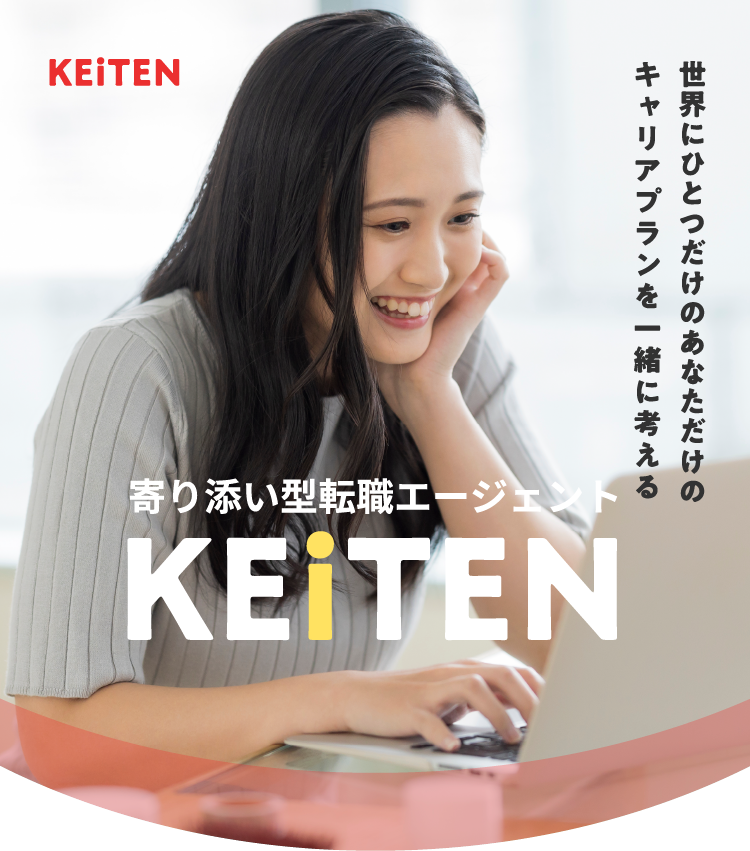
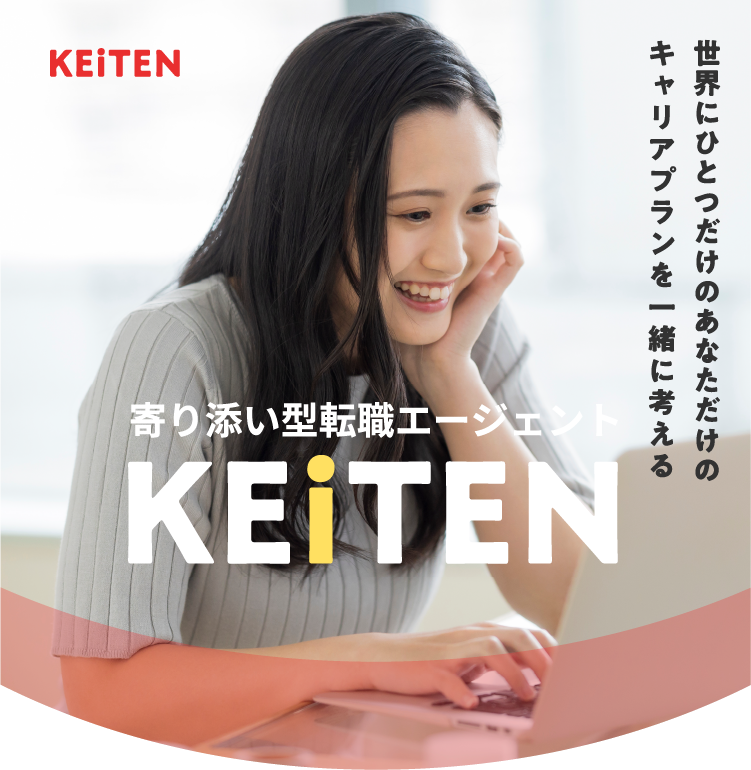
再校の内校

diff --git a/index.html b/index.html
@@ -34,13 +34,7 @@
                     <h1><img src="images/img_mv.png" alt="KEiTEN | 世界にひとつだけのあなただけのキャリアプランを一緒に考える 寄り添い型転職エージェント KEiTEN"></h1>
                 </div>
                 <div class="mv_point ">
-                    <div class="to_line">
-                        <a href="redirect.html" target="_blank">
-                            <img src="images/btn_line.png" alt="LINE カンタン1分!! 無料キャリア相談に申し込む">
-                        </a>
-                        <p class="caption">今回の募集は先着限定20名のご案内です</p>
-                    </div>
-
+                    
                     <ul class="flex">
                         <li><img src="images/txt_mv_01.png" alt="転職成功率89% ※1"></li>
                         <li><img src="images/txt_mv_02.png" alt="平均年収125万円UP ※2"></li>
@@ -49,11 +43,13 @@
                     <p class="caption">※1.2弊社アンケートに準ずるもの</p>
                 </div>
                 <div class="mv_point_bottom">
-                    <p class="img"><img src="images/img_mv_man.png" alt=""></p>
-                    <h2>
-                        <span class="fz180">担当者は全員、<span class="c_yellow">転職経験者</span></span><br>
-                        <span class="fz150">転職成功率は業界トップクラス!!</span>
-                    </h2>
+                    <div class="flex">
+                        <p class="img"><img src="images/img_mv_man.png" alt=""></p>
+                        <h2>
+                            <span class="fz140">担当者は全員、<span class="c_yellow">転職経験者</span></span><br>
+                            <span class="fz110">転職成功率は業界トップクラス!!</span>
+                        </h2>
+                    </div>
                 </div>
 
                 <div class="to_line">

diff --git a/css/style.css b/css/style.css
@@ -444,7 +444,7 @@ body {
 }
 .mv .mv_point {
   position: relative;
-  margin: -20% auto 3%;
+  margin: -29% auto 0;
   width: 86%;
   z-index: 3;
 }
@@ -461,13 +461,18 @@ body {
 .mv .mv_point .caption {
   font-size: 90%;
 }
+.mv .mv_point_bottom {
+  margin: 0 auto 2%;
+  width: 82%;
+}
 .mv .mv_point_bottom .img {
   margin: 0 auto;
-  width: 22.5%;
-  max-width: 168px;
+  width: 24%;
+  max-width: 148px;
 }
 .mv .mv_point_bottom h2 {
-  margin: 2% 0 3%;
+  margin-top: 7%;
+  width: 75;
   line-height: 1.4;
   font-weight: 900;
 }

diff --git a/scss/style.scss b/scss/style.scss
@@ -417,7 +417,7 @@ body{
 
 	.mv_point{
 		position: relative;
-		margin: -20% auto 3%;
+		margin: -29% auto 0;
 		width: 86%;
 		z-index: 3;
 
@@ -436,14 +436,17 @@ body{
 		}
 	}
 	.mv_point_bottom{
-		
+		margin: 0 auto 2%;
+		width: 82%;
+
 		.img{
 			margin: 0 auto;
-			width: 22.5%;
-			max-width: 168px;
+			width: 24%;
+			max-width: 148px;
 		}
 		h2{
-			margin: 2% 0 3%;
+			margin-top: 7%;
+			width: 75;
 			line-height: 1.4;
 			font-weight: 900;
 		}
